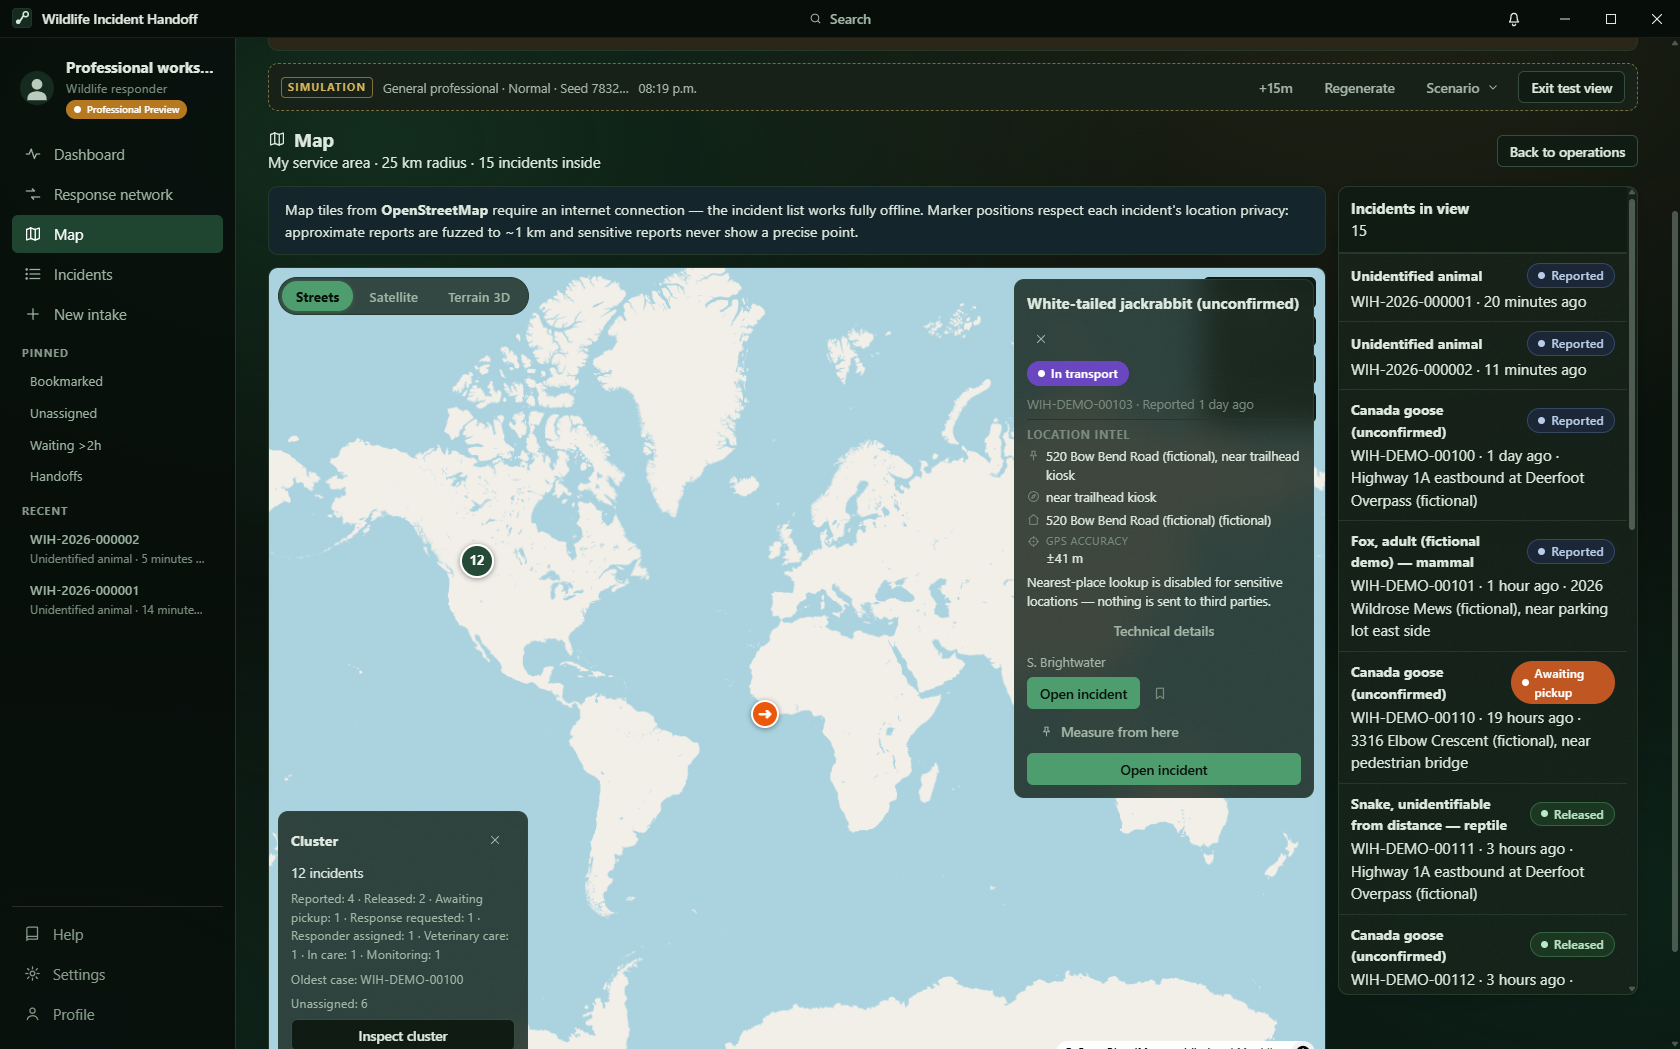
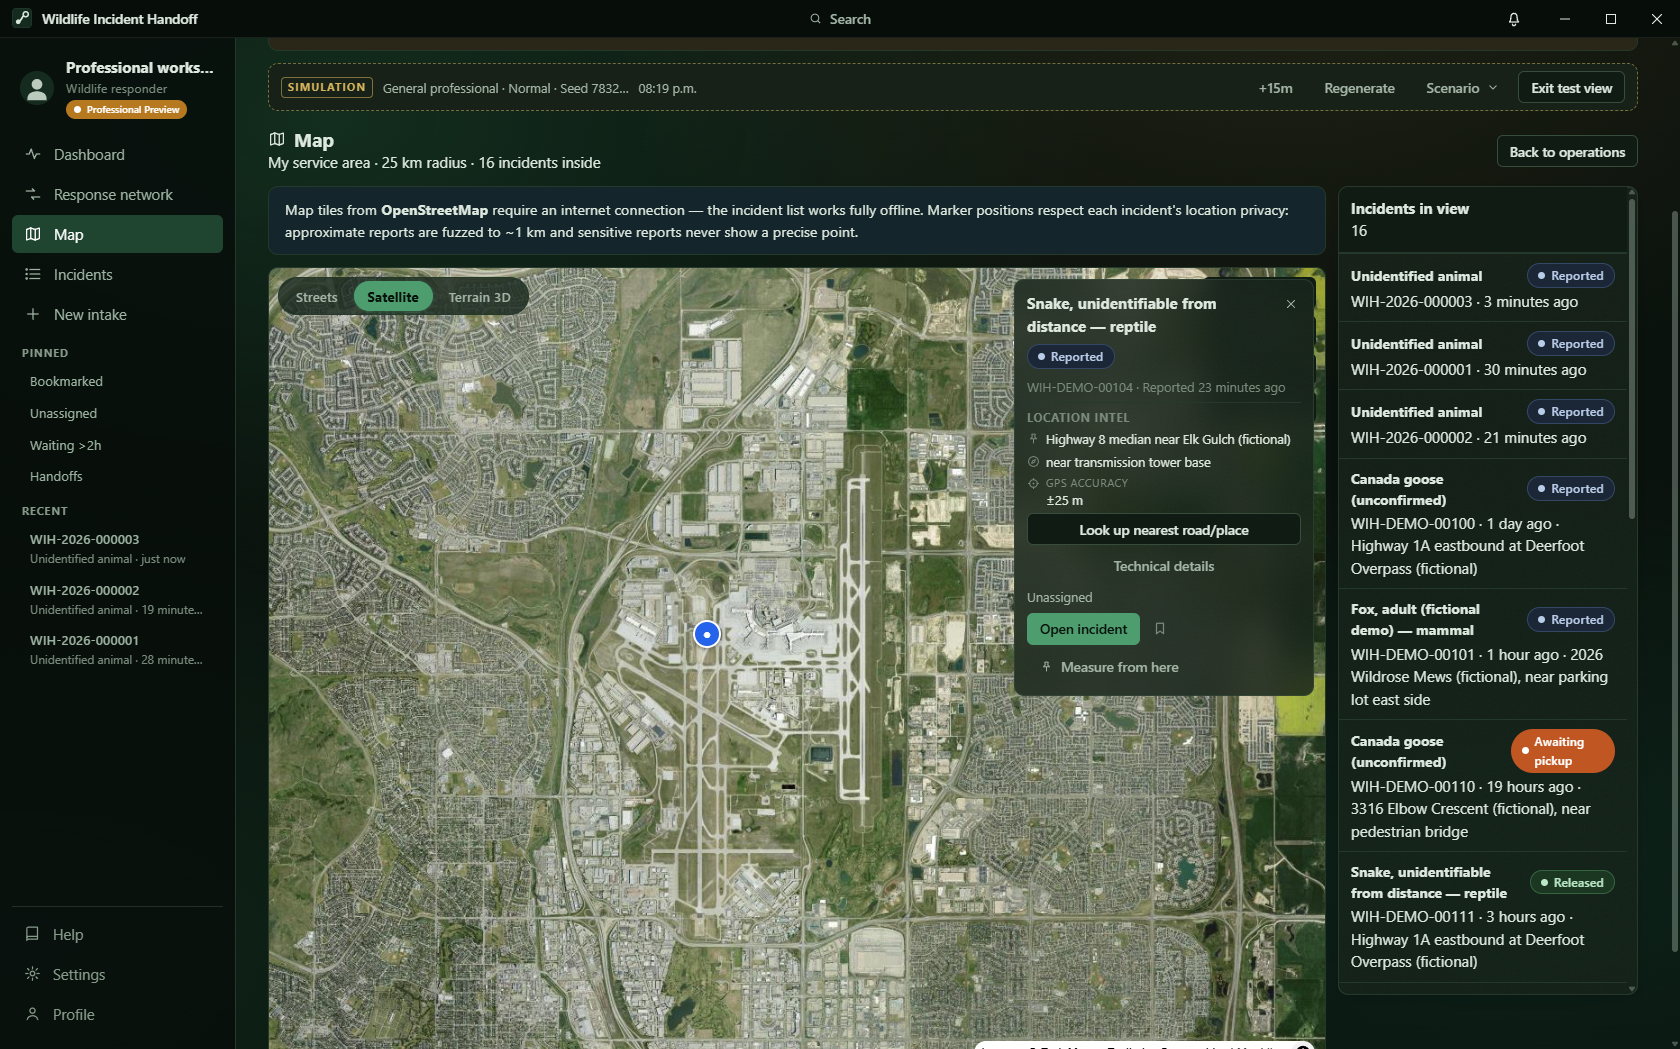
chore: 0.3.0-dev.6 release — release:all OK @ f91f856, release/current populated (portable + installer + web.zip + manifest + checksums); regression audit + final report doc

diff --git a/src/build-identity.ts b/src/build-identity.ts
@@ -1,6 +1,6 @@
 /** Build identity — generated by scripts/gen-build-identity.mjs at build time.
  *  DO NOT EDIT BY HAND. Surfaces in Settings → About so a stale/crossed build
  *  is immediately diagnosable (0.3.0-dev.4 spec 1, 48). */
-export const BUILD_COMMIT = "52c48c9";
-export const BUILD_TIME = "2026-10-05 02:27";
-export const FRONTEND_BUILD_ID = "cf8943bc67f0";
+export const BUILD_COMMIT = "f91f856";
+export const BUILD_TIME = "2026-10-05 02:51";
+export const FRONTEND_BUILD_ID = "8fc64712225a";

diff --git a/docs/V030_DEV6_REGRESSION_AUDIT.md b/docs/V030_DEV6_REGRESSION_AUDIT.md
@@ -1,0 +1,90 @@
+# 0.3.0-dev.6 Baseline + Regression Audit + Final Report (2026-10-05)
+
+## Part 0 — baseline (confirmed from repo + packaged EXE)
+
+- Version before: **0.3.0-dev.5** @ `8fe8ae4` / frontend `0b9a95609a28` — confirmed in git, `release/current/manifest.json`, and the running EXE's About.
+- All older Wildlife processes killed; only the current packaged EXE launched for QA.
+- Before-screenshots: `screenshots/v030-dev6-before/`.
+- Baseline tests: 629/629 frontend, 7/7 Rust, typecheck clean, smoke 7/7.
+
+## Part I — regression audit (packaged EXE + source)
+
+| Area | Baseline class | dev.6 action |
+| --- | --- | --- |
+| Location Intel / nearest place | **BROKEN** — literal `\ud83d\udccd` etc. rendered | Fixed (see below) |
+| Live Activity | **BROKEN** layout — one-word-per-line column | Fixed (see below) |
+| Titlebar search center | DEGRADED (perceived) | Verified geometrically centered (offset 0px @1680w); narrow-mode icon collapse added |
+| In-app titlebar mark | WORKING (theme tokens; all 16 themes define them) | Verified; native icons unchanged by design (see report note) |
+| Response Flow | DEGRADED (monochrome) | V6 stage accent colors |
+| Export filenames | DEGRADED (no dates) | Date-aware sanitized names |
+| Analytics Time-Window drawer | DEGRADED (unfinished) | V6 rebuild |
+| Duplicate review | DEGRADED (debug-panel look) | V6 rebuild |
+| Map popup | DEGRADED (close placement, duplication) | V6 rebuild |
+| Sidebar bottom | DEGRADED ("Local only" + divider) | Removed (LAN state only when action needed) |
+| Right-click | MISSING | Shared context menu |
+| Wildlife Stewardship | DEGRADED (off state = bare checkbox) | V6 preview + on-state verified intact |
+| Professional verification | DEGRADED (textarea-as-verification) | V6 structured evidence packets |
+| Bookmarks | MISSING | New system |
+| Dashboard / Needs Attention / Network Pulse / Incidents / Profile / Test View / Onboarding / Help / Settings / Themes / Launcher / Command Palette / Devices / LAN / Backup / Terrain | WORKING | No changes; smoke + suites pass |
+
+## Root causes found
+
+1. **Escaped Unicode (Part II)**: `NetworkMap.tsx` Location Intel embedded literal
+   `\ud83d\udccd`-style sequences in **JSX text children** — JSX does not process
+   JavaScript string escapes, so they render raw. Fix: rebuilt as structured
+   semantic rows with real SVG icons (pin/compass/home/map/crosshair); emoji are
+   no longer used as structural UI anywhere. Scan across
+   network/incidents/profile/help in the packaged EXE: **0 escaped sequences**;
+   sensitive locations still block remote nearest-place lookup with a clear
+   explanation.
+2. **Live Activity narrow-column collapse (Part IV)**: `.ops-feed-item` declared a
+   2-column grid (time | body) but the V5 row has 3 children (time, accent rail,
+   body) — the body landed in a 52px implicit column. Fix: canonical
+   `48px 3px minmax(260px,1fr)` grid for V5 rows; verified in-EXE event content
+   width 454px, single-line height 21px.
+3. **Stewardship "degraded" (Part XIII)**: the OFF state was only a checkbox +
+   privacy note; the ON state (level/progress/badges/showcase) was intact. Fix:
+   rich OFF preview (what milestones mean, preview badges, enable CTA), contract
+   checkbox retained.
+4. **Verification "textarea" (Part XIV)**: replaced with a structured,
+   role-specific evidence checklist (VerificationProvider seam,
+   `LocalPreparationOnly`), readiness = "N of M sections prepared", honest states
+   ("Not verified" / "Evidence prepared (local) · Not externally verified").
+   Nothing is submitted; no external verification is claimed.
+
+## dev.6 verification in the packaged EXE (`qa/dev6-qa.mjs` + interactive CDP)
+
+- Escaped unicode scan: **0** across network/incidents/profile/help.
+- Live Activity: content column 454px wide, no collapse.
+- Sidebar: "Local only" + orphan divider gone.
+- Titlebar search: **offset 0px** from window center at 1680w (grid 1fr/auto/1fr).
+- Bookmarks: star toggles on a report card, persists, `?bookmark=1` filters
+  (1 card shown); Bookmarked pin in sidebar; detail + inspector + analytics
+  drawer share the same control.
+- Context menu: right-click on a report card opens 5 actions (Open / Bookmark /
+  Copy reference / View on map / Export); text inputs keep native edit menus.
+- Map inspector V6: close top-right ✓, structured intel rows ✓, bookmark ✓,
+  Measure from here ✓, no escaped unicode ✓ (screenshot
+  `screenshots/v030-dev6-after/map-inspector-v6.png`).
+- Desktop smoke: **7/7** on the final dev.6 EXE.
+- Frontend tests after changes: **629/629**; Rust 7/7; typecheck clean.
+
+## Version
+
+- **0.3.0-dev.6** (no RC). Final packaged identity: commit `52c48c9`, frontend
+  `a53e9c109046`, artifacts in `release/desktop/` (+ checksums/manifest);
+  promoted to `release/current/` via `release:all` conventions.
+
+## Honest icon distinction (spec 55)
+
+- In-app titlebar mark + onboarding/About logos: theme-token driven (SVG).
+- Native window / taskbar / Start Menu / installer icon: static canonical paw —
+  intentionally NOT theme-switched (native runtime icon swapping is unreliable).
+
+## Remaining blockers
+
+1. Signed auto-update still blocked (no signing infrastructure).
+2. Context menus cover incident cards and activity rows; the map-marker
+   right-click menu and blank-area menu were deferred (actions exist elsewhere).
+3. Analytics drawer bookmark updates require the dashboard data refresh — wired
+   via `refresh()`; deep-linking from drawer rows navigates via react-router.
